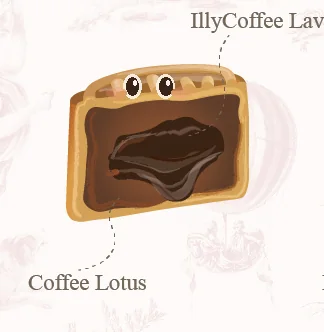
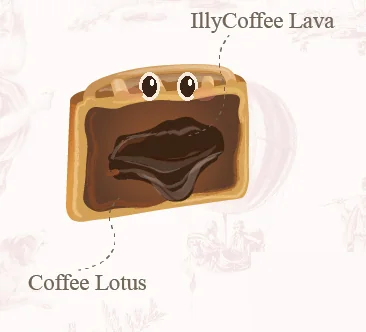
Fix coffee character crop: full Lava label, neighbour bleed patched

diff --git a/index.html b/index.html
@@ -1234,7 +1234,7 @@
     berryrose:{name:"Mixed Berry Lotus with Raspberry Rose", range:"Momoyama Cantonese · New", img:"assets/berry-rose.webp?v=2", illus:"assets/illus/berryrose.webp?v=1", a:"#f-berryrose", buy:"https://www.lalevain.com/product/cantonese-mooncake-4pc/", blurb:"Rose and freeze-dried raspberry over a mixed berry lotus. Floral, tart and this year's boldest newcomer.", cute:"Romantic, a little dramatic, always the most interesting person at the table."},
     mango:{name:"Mango Pomelo with Grapefruit", range:"Mini Momoyama", img:"assets/mango-pomelo.webp?v=2", illus:"assets/illus/mango.webp?v=1", a:"#f-mango", buy:"https://www.lalevain.com/product/mini-momoyama-cantonese-mooncake-new/", blurb:"Singapore's favourite dessert as a mooncake: Aiwen mango, candied pomelo and a grapefruit edge.", cute:"Sweet, sunny and just tart enough to keep everyone guessing."},
     peach:{name:"Peach Jasmine Oolong", range:"Mini Momoyama", img:"assets/peach-oolong.webp?v=2", illus:"assets/illus/peach.webp?v=1", a:"#f-peach", buy:"https://www.lalevain.com/product/mini-momoyama-cantonese-mooncake-new/", blurb:"Two tea lotus pastes with candied white peach. Years of tea experiments, finally in balance.", cute:"Soft-spoken but deep. You're the cup of tea everyone needs."},
-    coffee:{name:"Illy Coffee Lava", range:"Mini Momoyama", img:"assets/coffee-lava.webp?v=2", illus:"assets/illus/coffee.webp?v=1", a:"#f-coffee", buy:"https://www.lalevain.com/product/mini-momoyama-cantonese-mooncake-new/", blurb:"100% Arabica Illy coffee with a molten lava centre. For the ones who order a long black.", cute:"You run on coffee and melt for a molten centre. We see you."},
+    coffee:{name:"Illy Coffee Lava", range:"Mini Momoyama", img:"assets/coffee-lava.webp?v=2", illus:"assets/illus/coffee.webp?v=2", a:"#f-coffee", buy:"https://www.lalevain.com/product/mini-momoyama-cantonese-mooncake-new/", blurb:"100% Arabica Illy coffee with a molten lava centre. For the ones who order a long black.", cute:"You run on coffee and melt for a molten centre. We see you."},
     fleur:{name:"Fleur de Cao", range:"Mini Momoyama", img:"assets/fleur-de-cao.webp?v=2", illus:"assets/illus/fleur.webp?v=1", a:"#f-fleur", buy:"https://www.lalevain.com/product/mini-momoyama-cantonese-mooncake-new/", blurb:"Cookies and cream, turned into a mooncake with our signature Fleur de Cao cookie and Belgian chocolate.", cute:"Grew up on cookies and cream, glowed up to this."},
     teosalted:{name:"Teochew Salted Egg", range:"Teochew · flaky crust", img:"assets/teochew-saltedegg.webp?v=2", illus:"assets/illus/teosalted.webp?v=1", a:"#f-teosalted", buy:"https://www.lalevain.com/product/baked-teochew-mooncake/", blurb:"Hand-folded flaky crust in French butter around a rich salted egg heart. Baked, never fried.", cute:"Flaky in pastry only. You show up buttery, golden and reliable."},
     teosesame:{name:"Black Sesame Hokkaido Milk, Mochi", range:"Teochew · flaky crust", img:"assets/teochew-blacksesame.webp?v=2", illus:"assets/illus/teosesame.webp?v=1", a:"#f-teosesame", buy:"https://www.lalevain.com/product/baked-teochew-mooncake/", blurb:"Hong Kong zee ma woo meets Hokkaido milk, with a chewy mochi centre inside flaky layers.", cute:"Quietly complex, pleasantly chewy, impossible not to like."},
